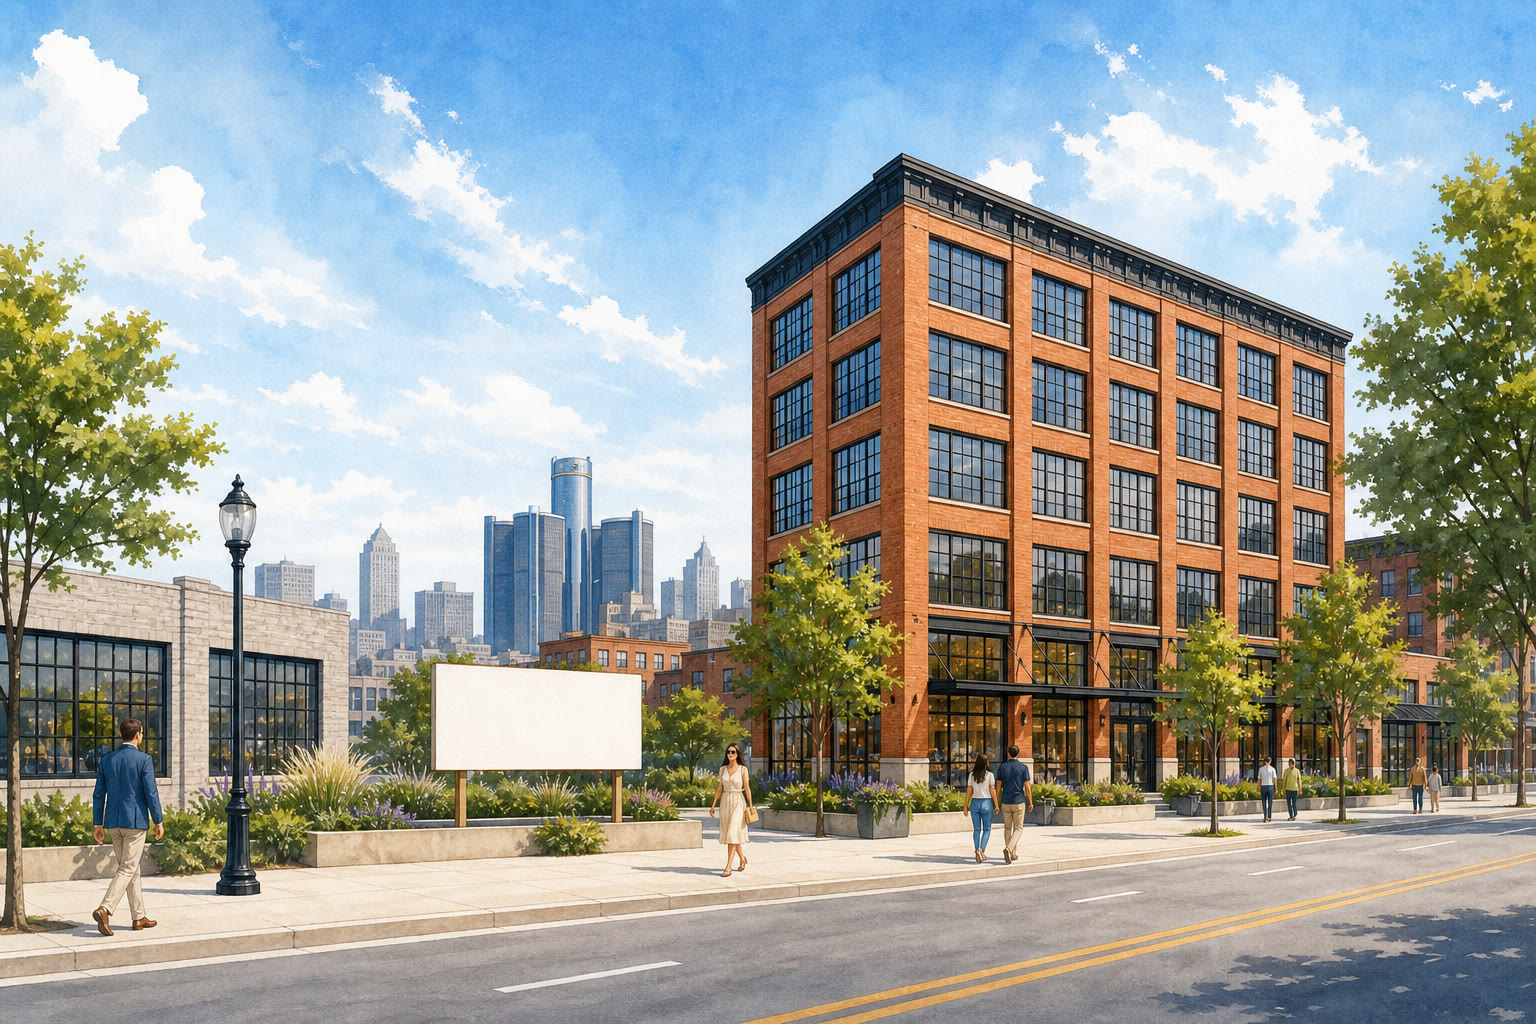
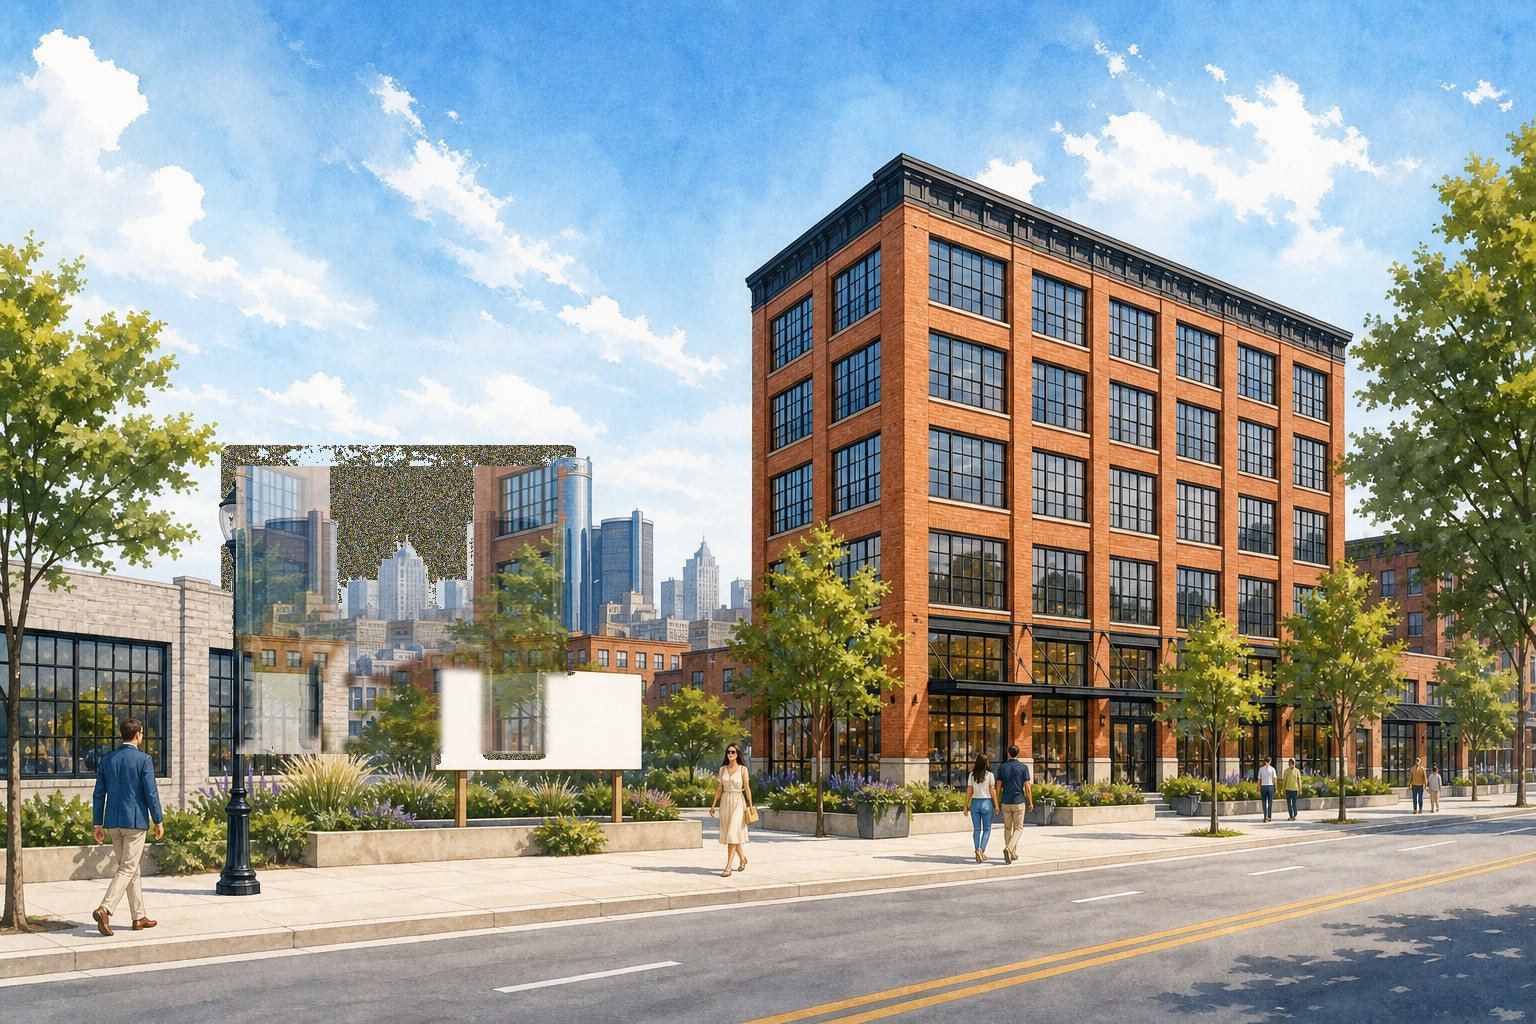
Remove sidewalk walkers and paint out the hero billboard. (#8)
The street is still again: CSS walker figures and their stroll
keyframes are gone. Clouds can still drift. The blank white
billboard in the Detroit painting is filled with the trees and
mid-ground to its right — no Corridor copy on the board.

Changed region(s): [[0.125, 0.4375, 0.375, 0.75]]

diff --git a/public/index.html b/public/index.html
@@ -73,41 +73,8 @@
     from { transform: translate3d(8%, 2%, 0); }
     to { transform: translate3d(-10%, 0, 0); }
   }
-  .sidewalk {
-    position: absolute; left: 0; right: 0; bottom: 0;
-    height: 20%; min-height: 100px;
-    overflow: hidden; pointer-events: none; z-index: 2;
-  }
-  .walker {
-    position: absolute; bottom: 18%;
-    height: 78px; width: auto;
-    transform-origin: bottom center;
-    will-change: transform;
-  }
-  .walker svg { display: block; height: 100%; width: auto; overflow: visible; }
-  .walker .leg { transform-box: fill-box; transform-origin: 50% 0%; }
-  .walker .leg-a { animation: stride 0.55s ease-in-out infinite; }
-  .walker .leg-b { animation: stride 0.55s ease-in-out infinite reverse; }
-  .w1 { height: 76px; animation: stroll-right 34s linear infinite; }
-  .w2 { height: 70px; animation: stroll-right 42s linear infinite; animation-delay: -18s; }
-  .w3 { height: 74px; animation: stroll-left 38s linear infinite; animation-delay: -8s; }
-  @keyframes stroll-right {
-    from { transform: translateX(-12vw); }
-    to { transform: translateX(108vw); }
-  }
-  @keyframes stroll-left {
-    from { transform: translateX(108vw) scaleX(-1); }
-    to { transform: translateX(-12vw) scaleX(-1); }
-  }
-  @keyframes stride {
-    from { transform: rotate(-16deg); }
-    to { transform: rotate(16deg); }
-  }
   @media (prefers-reduced-motion: reduce) {
-    .cloud, .walker, .walker .leg-a, .walker .leg-b { animation: none; }
-    .w1 { left: 12%; }
-    .w2 { left: 28%; }
-    .w3 { left: 48%; transform: scaleX(-1); }
+    .cloud { animation: none; }
   }
   .street-fade {
     position: absolute; left: 0; right: 0; bottom: 0;
@@ -244,44 +211,6 @@
       <div class="cloud cloud-c"></div>
     </div>
     <div class="street-fade" aria-hidden="true"></div>
-    <div class="sidewalk" aria-hidden="true">
-      <div class="walker w1">
-        <svg viewBox="0 0 36 78" fill="none">
-          <circle cx="18" cy="9" r="6.2" fill="#C4A882"/>
-          <path d="M12 7.2c1.4-3 8.4-3.2 10.2.4-2.2.2-6.6.4-10.2-.4Z" fill="#2B2B2B"/>
-          <path d="M11 20.5c0-3.2 3.2-5.2 7-5.2s7 2 7 5.2v16.2c0 2.2-2.4 3.6-7 3.6s-7-1.4-7-3.6V20.5Z" fill="#3A5A8A"/>
-          <path class="leg leg-a" d="M13.2 40.2h5.2v22.4c0 1.4-1.2 2.4-2.6 2.4h-.2c-1.4 0-2.4-1-2.4-2.4V40.2Z" fill="#2B2B2B"/>
-          <path class="leg leg-b" d="M17.8 40.2h5.2v22.4c0 1.4-1 2.4-2.4 2.4h-.2c-1.4 0-2.6-1-2.6-2.4V40.2Z" fill="#1a1a1a"/>
-          <path d="M9.4 22.2c-.6 4.2-1 8.4.2 11.6 1.4-2.2 2.2-6.4 2.2-11.2L9.4 22.2Z" fill="#2B2B2B"/>
-          <path d="M26.6 22.2c.6 4.2 1 8.4-.2 11.6-1.4-2.2-2.2-6.4-2.2-11.2l2.4-.4Z" fill="#2B2B2B"/>
-        </svg>
-      </div>
-      <div class="walker w2">
-        <svg viewBox="0 0 58 74" fill="none">
-          <circle cx="18" cy="10" r="5.4" fill="#D2B48C"/>
-          <path d="M13.2 8.2c1.6-2.6 8-2.4 9.2.8-2 .2-6.2.2-9.2-.8Z" fill="#5A4636"/>
-          <path d="M12.4 20c0-2.6 2.6-4.4 5.8-4.4s5.8 1.8 5.8 4.4v14c0 1.8-2 3-5.8 3s-5.8-1.2-5.8-3V20Z" fill="#C45A3A"/>
-          <path class="leg leg-a" d="M14 37.6h4.4v20c0 1.2-1 2.2-2.2 2.2h-.2c-1.2 0-2-1-2-2.2v-20Z" fill="#2B2B2B"/>
-          <path class="leg leg-b" d="M17.8 37.6h4.4v20c0 1.2-.8 2.2-2 2.2h-.2c-1.2 0-2.2-1-2.2-2.2v-20Z" fill="#3a3a3a"/>
-          <circle cx="38" cy="11" r="5.2" fill="#C4A882"/>
-          <path d="M33.4 8.6c1.8-2.8 8.4-2.6 9.4 1-2.2 0-6.4.2-9.4-1Z" fill="#2B2B2B"/>
-          <path d="M32.6 21c0-2.6 2.6-4.6 5.6-4.6s5.6 2 5.6 4.6v14.4c0 1.8-2 3.2-5.6 3.2s-5.6-1.4-5.6-3.2V21Z" fill="#D6E6F5"/>
-          <path class="leg leg-b" d="M34 38.4h4.2v19.2c0 1.2-.8 2-2 2h-.2c-1.2 0-2-.8-2-2V38.4Z" fill="#2B2B2B"/>
-          <path class="leg leg-a" d="M37.6 38.4h4.2v19.2c0 1.2-.8 2-2 2h-.2c-1.2 0-2-.8-2-2V38.4Z" fill="#1a1a1a"/>
-        </svg>
-      </div>
-      <div class="walker w3">
-        <svg viewBox="0 0 34 76" fill="none">
-          <circle cx="17" cy="9.2" r="6" fill="#C8B49A"/>
-          <path d="M11.4 7.4c1.8-3.2 9.2-3 10.6.8-2.4.2-7 .4-10.6-.8Z" fill="#3d3a36"/>
-          <path d="M10.8 20.2c0-3 3-5 6.4-5s6.4 2 6.4 5v15.6c0 2-2.2 3.4-6.4 3.4s-6.4-1.4-6.4-3.4V20.2Z" fill="#5F5C57"/>
-          <path class="leg leg-a" d="M12.4 39.4h4.8v21.2c0 1.3-1 2.2-2.3 2.2h-.2c-1.3 0-2.3-.9-2.3-2.2V39.4Z" fill="#2B2B2B"/>
-          <path class="leg leg-b" d="M16.8 39.4h4.8v21.2c0 1.3-1 2.2-2.3 2.2h-.2c-1.3 0-2.3-.9-2.3-2.2V39.4Z" fill="#1a1a1a"/>
-          <path d="M9 22c-.4 3.8-.6 7.6.4 10.6 1.2-2 1.8-5.8 1.8-10.2L9 22Z" fill="#C8C2B4"/>
-          <path d="M25 22c.4 3.8.6 7.6-.4 10.6-1.2-2-1.8-5.8-1.8-10.2L25 22Z" fill="#C8C2B4"/>
-        </svg>
-      </div>
-    </div>
     <header class="sky-bar">
       <button type="button" class="wordmark" data-home="1">
         <svg width="22" height="24" viewBox="0 0 22 24" fill="none" aria-hidden="true" style="display: block; color: #2B2B2B;">

diff --git a/scripts/test.js b/scripts/test.js
@@ -760,7 +760,7 @@ main().catch(async (err) => {
   check('moodboard palette is on the homepage', /#D6E6F5/.test(landing) && /#C45A3A/.test(landing) && /#C8C2B4/.test(landing) && /#2B2B2B/.test(landing));
   check('moodboard filler was not copied into the product', !/local roots|sustainable|LIST YOUR PROPERTY|corridor\.co/i.test(landing));
   check('hero type is quiet, not a poster headline', /class="sky-copy"/.test(landing) && /Cinematic listing tours/.test(landing) && !/<h1>/.test(landing) && !/id="boring-word"/.test(landing) && !/CRE marketing is boring/.test(landing));
-  check('pedestrians walk the sidewalk', /class="sidewalk"/.test(landing) && /class="walker w1"/.test(landing) && /@keyframes stroll-right/.test(landing));
+  check('hero is a still street, no walker figures', !/class="sidewalk"/.test(landing) && !/class="walker/.test(landing) && !/@keyframes stroll-/.test(landing) && !/@keyframes stride/.test(landing));
   check('nav has What we do, Pricing, FAQ, Sign in, and Create account', /href="#product"/.test(landing) && /href="#pricing"/.test(landing) && /href="#faq"/.test(landing) && /data-open-auth="login"/.test(landing) && /data-open-auth="create"/.test(landing) && /Create account/.test(landing));
   check('clouds drift in the sky only', /class="sky-drift"/.test(landing) && /@keyframes drift-a/.test(landing) && !/\.street-art\s*\{[^}]*animation/.test(landing));
   check('ticker and brochure sections were cut', !/corridorMarquee/.test(landing) && !/Please see attached/.test(landing) && !/Included every time/.test(landing) && !/eight-figure/.test(landing) && !/id="brokerages"/.test(landing));
